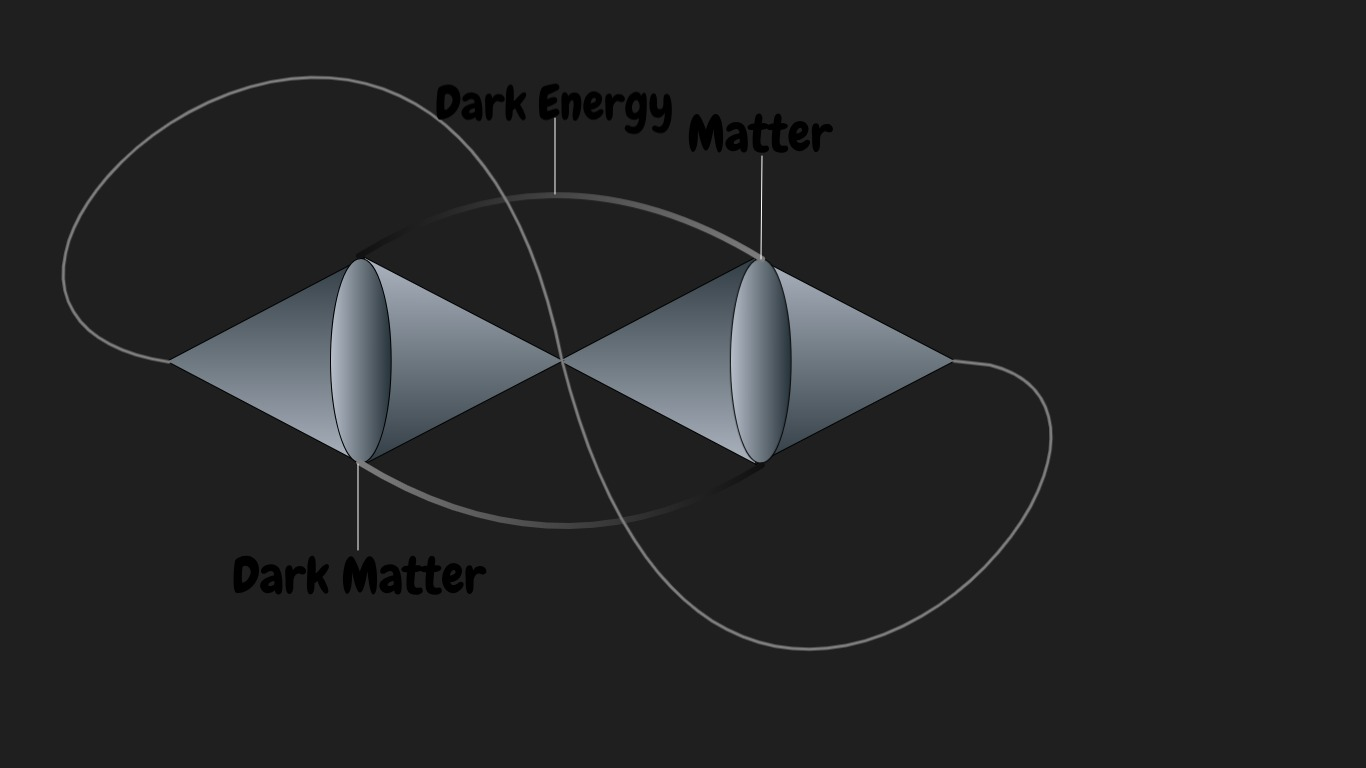
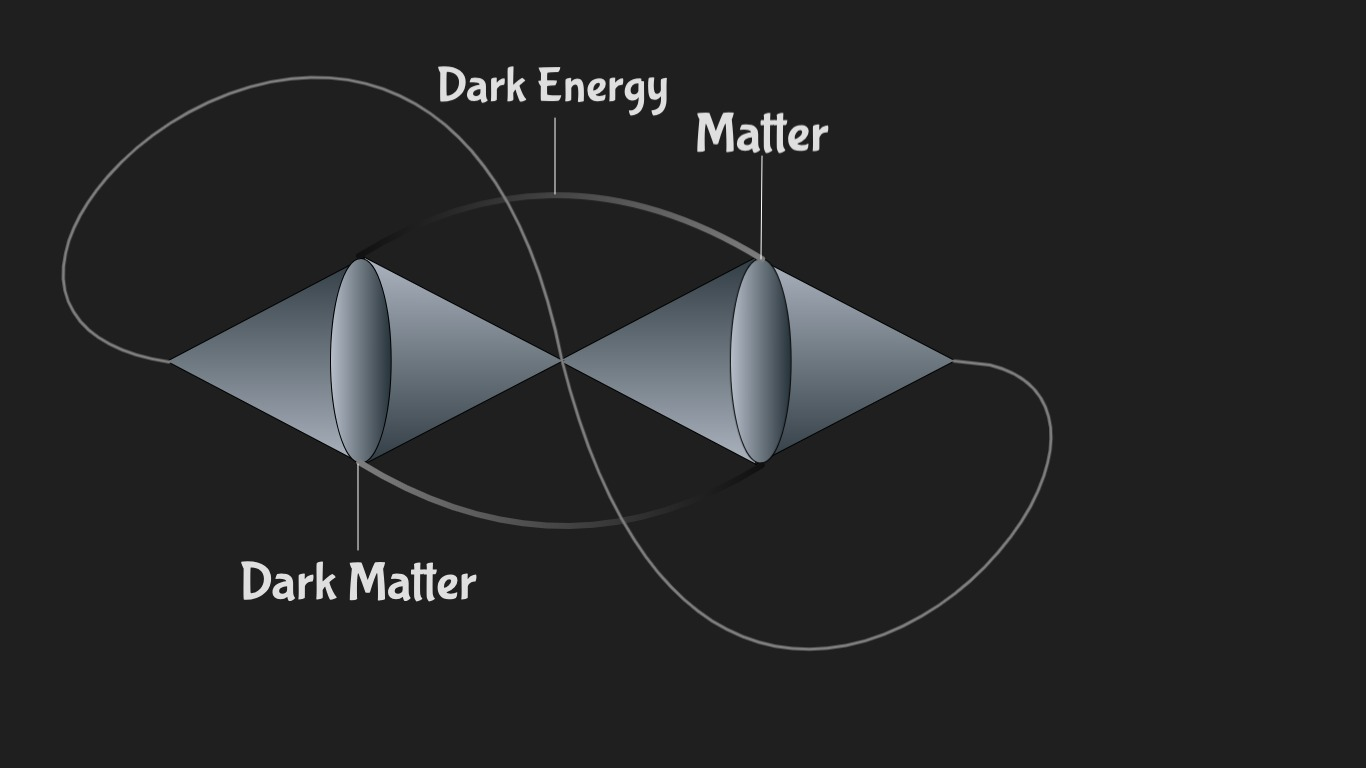
redesign

Changed region(s): [[0.3075, 0.0625, 0.6149, 0.2188], [0.1537, 0.7188, 0.369, 0.7812]]

diff --git a/index.html b/index.html
@@ -1,112 +1,88 @@
 <!doctype html>
 <html lang="en">
   <head>
+    <!-- Required meta tags -->
     <meta charset="utf-8">
-    <meta name="viewport" content="width=device-width, initial-scale=1, shrink-to-fit=yes">
+    <meta name="viewport" content="width=device-width, initial-scale=1, shrink-to-fit=no">
 
-    <title>String-Ligion</title>
+    <!-- Bootstrap CSS -->
+    <link rel="stylesheet" href="https://bootswatch.com/4/superhero/bootstrap.min.css" integrity="sha384-MCw98/SFnGE8fJT3GXwEOngsV7Zt27NXFoaoApmYm81iuXoPkFOJwJ8ERdknLPMO" crossorigin="anonymous">
 
-    <!-- Bootstrap core CSS -->
-    <link rel="stylesheet" href="https://stackpath.bootstrapcdn.com/bootstrap/4.1.3/css/bootstrap.min.css" integrity="sha384-MCw98/SFnGE8fJT3GXwEOngsV7Zt27NXFoaoApmYm81iuXoPkFOJwJ8ERdknLPMO" crossorigin="anonymous">
+    <link rel="stylesheet" href="https://getbootstrap.com/docs/4.1/examples/cover/cover.css">
 
-    <!-- Custom styles for this template -->
-    <link href="starter-template.css" rel="stylesheet">
+    <link rel="stylesheet" href="static/styles.css">
+    <link rel="stylesheet" href="static/stler.css">
 
-    <link href="static/styles.css" rel="stylesheet">
-    <link href="static/styler.css" rel="stylesheet">
+    <!-- Bootstrap 4 Example: Cover  https://getbootstrap.com/docs/4.1/examples/cover/ -->
+    <link rel="stylesheet" href="https://getbootstrap.com/docs/4.1/examples/cover/cover.css">
+
+    <title>String-Ligion!</title>
   </head>
 
-  <body>
+  <body class="text-center">
 
-    <nav class="navbar navbar-expand-md navbar-dark bg-dark fixed-top">
-      <a class="navbar-brand" href="index.html"><img src="static/nebula.jpg" height="28px"></a>
-      <button class="navbar-toggler" type="button" data-toggle="collapse" data-target="#navbar" aria-controls="navbar" aria-expanded="false" aria-label="Toggle navigation">
-        <span class="navbar-toggler-icon"></span>
-      </button>
-
-      <div class="collapse navbar-collapse" id="navbar">
-        <ul class="navbar-nav mr-auto">
-          <li class="nav-item active">
-            <a class="nav-link" href="index.html">Home <span class="sr-only">(current)</span></a>
-          </li>
-          <li class="nav-item">
-            <a class="nav-link" href="physics.html">Physics</a>
-          </li>
-          <li class="nav-item">
-            <a class="nav-link" href="psychology.html">Psychology</a>
-          </li>
-          <li class="nav-item">
-            <a class="nav-link" href="religion.html">Religion</a>
-          </li>
-        </ul>
-      </div>
-    </nav>
-
-    <main role="main" class="container">
-
-      <div class="hero-image">
-        <br><br><br>
-        <h1>Welcome to my Crazy!</h1>
-        <div class="row justify-content-xs-center">
-            <div class="col-10">
-                <img src="SL0.jpeg" class="rounded mx-auto d-block" width="80%">
-            </div>
+    <!-- Bootstrap 4 Example: Cover  https://getbootstrap.com/docs/4.1/examples/cover/ -->
+    <div class="cover-container d-flex w-100 h-100 p-3 mx-auto flex-column">
+      <header class="masthead mb-auto">
+        <div class="inner">
+          <h3 class="masthead-brand">String-Ligion</h3>
+          <nav class="nav nav-masthead justify-content-center">
+            <a class="nav-link active" href="/index.html">Home</a>
+            <a class="nav-link" href="/physics.html">Physics</a>
+            <a class="nav-link" href="/psychology.html">Psychology</a>
+            <a class="nav-link" href="/religion.html">Religion</a>
+          </nav>
         </div>
-        <br>
-        <br>
-        <div class="row justify-content-xs-center">
-            <div class="col">
-                <table class="table-responsive-md table-dark table-striped">
-                    <thead>
-                      <tr>
-                          <th scope="col"></th>
-                          <th scope="col">(-)</th>
-                          <th scope="col">(0)</th>
-                          <th scope="col">(+)</th>
-                      </tr>
-                    </thead>
-                    <tbody>
-                      <tr>
-                          <th>Physics</th>
-                          <th>Dark Matter</th>
-                          <th>Dark Energy</th>
-                          <th>Matter</th>
-                      </tr>
-                      <tr>
-                          <th>Psychology</th>
-                          <th>Personal Unconscious</th>
-                          <th>Collective Unconscious</th>
-                          <th>Conscious Mind</th>
-                      </tr>
-                      <tr>
-                          <th>Religion / Spirituality</th>
-                          <th>Mind</th>
-                          <th>Spirit</th>
-                          <th>Body</th>
-                      </tr>
-                    </tbody>
-                </table>
-            </div>
-        </div>
-        <br>
-        <br>
-        <div class="row justify-content-xs-center">
-            <div class="col-10">
-                 <p class="text1">
-                    This website is a <i>very</i> rough attempt to describe an idea that has haunted me for most of my adult life.  An attempt to describe a Grand Unified Theory of Everything which unites physics, religion, and psychology into a single worldview based on the principle of 3 + 1.  For example, beginning, middle, and end, and the space before and after, as in the syllable OM in Hinduism which consists of the three seed syllables A, OH, and HUM. Another example would be the four fundamental particles, with the neutrino being the +1 (a seemingly irrelevant particle whose function is unknown); or in ancient times the four elements earth, air, water, and fire, with fire being the “one of these things just doesn’t belong.”
-                 </p>
-                 <p id="textbig">
-                   I don’t expect it to make any sense at all to anyone but myself!!!
-                 </p>
-            </div>
-        </div>
-      </div>
+      </header>
 
-    </main><!-- /.container -->
+      <main role="main" class="inner cover">
+        <h1 class="cover-heading">Welcome to My Crazy.</h1>
+        <p class="lead">This is a website for CS50W on edX!</p>
+        <p class="lead">
+          <img src="SL0.jpeg" class="rounded mx-auto d-block" width="80%">
+        </p>
+        <table class="lead table-responsive-md table-dark table-striped">
+          <thead>
+            <tr>
+                <th scope="col"></th>
+                <th scope="col">(-)</th>
+                <th scope="col">(0)</th>
+                <th scope="col">(+)</th>
+            </tr>
+          </thead>
+          <tbody>
+            <tr>
+                <th>Physics</th>
+                <th>Dark Matter</th>
+                <th>Dark Energy</th>
+                <th>Matter</th>
+            </tr>
+            <tr>
+                <th>Psychology</th>
+                <th>Personal Unconscious</th>
+                <th>Collective Unconscious</th>
+                <th>Conscious Mind</th>
+            </tr>
+            <tr>
+                <th>Religion / Spirituality</th>
+                <th>Mind</th>
+                <th>Spirit</th>
+                <th>Body</th>
+            </tr>
+          </tbody>
+        </table>
+      </main>
 
-    <!-- Bootstrap core JavaScript
-    ================================================== -->
-    <!-- Placed at the end of the document so the pages load faster -->
+      <footer class="mastfoot mt-auto">
+        <div class="inner">
+          <p>Cover template for <a href="https://getbootstrap.com/">Bootstrap</a>, by <a href="https://twitter.com/mdo">@mdo</a>.</p>
+          <p>Modified by eleusius for CS50W.</p>
+        </div>
+      </footer>
+    </div>
+
+    <!-- Optional JavaScript -->
+    <!-- jQuery first, then Popper.js, then Bootstrap JS -->
     <script src="https://code.jquery.com/jquery-3.3.1.slim.min.js" integrity="sha384-q8i/X+965DzO0rT7abK41JStQIAqVgRVzpbzo5smXKp4YfRvH+8abtTE1Pi6jizo" crossorigin="anonymous"></script>
     <script src="https://cdnjs.cloudflare.com/ajax/libs/popper.js/1.14.3/umd/popper.min.js" integrity="sha384-ZMP7rVo3mIykV+2+9J3UJ46jBk0WLaUAdn689aCwoqbBJiSnjAK/l8WvCWPIPm49" crossorigin="anonymous"></script>
     <script src="https://stackpath.bootstrapcdn.com/bootstrap/4.1.3/js/bootstrap.min.js" integrity="sha384-ChfqqxuZUCnJSK3+MXmPNIyE6ZbWh2IMqE241rYiqJxyMiZ6OW/JmZQ5stwEULTy" crossorigin="anonymous"></script>

diff --git a/static/styles.css b/static/styles.css
@@ -11,7 +11,6 @@
 }
 
 @media (min-width: 500px) {
-
     .text1 {
         font-size: 1.5rem;
     }
